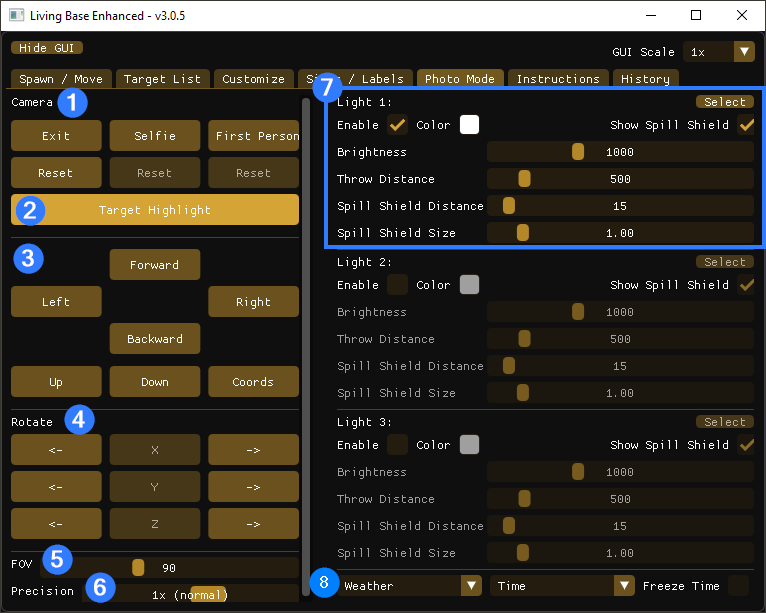
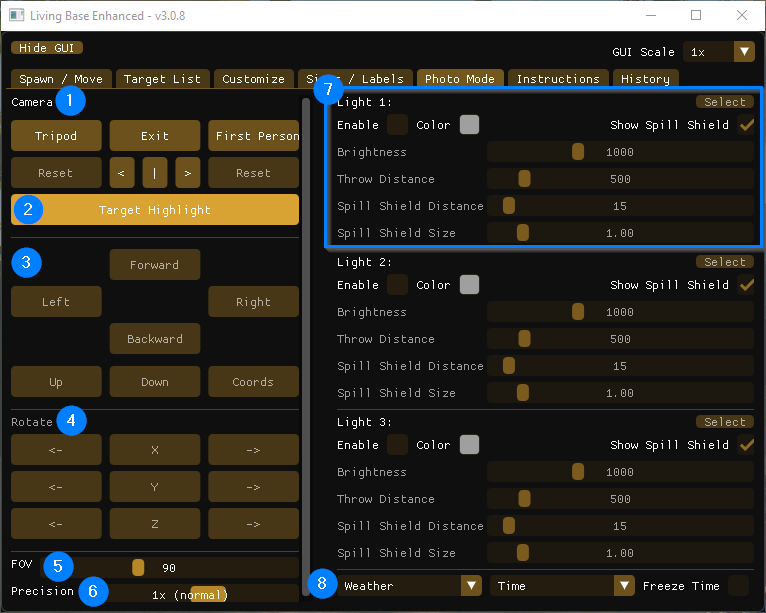
README: document Hand Item Transform, update Photo Mode screenshot
Hand Item Transform shipped in v3.0.7 but was never documented here at
all. Adds the missing Hand Item List/Hand Item Transform entries with
a panel screenshot and a before/after example pair. Also swaps the
Photo Mode overview screenshot for the current Camera panel (left/
center/right shoulder buttons replacing the old per-mode Selfie Reset).

diff --git a/R5/Binaries/Win64/ue4ss/Mods/LivingBase/README.md b/R5/Binaries/Win64/ue4ss/Mods/LivingBase/README.md
@@ -258,7 +258,18 @@ The Customize tab contains many features to help place and modify people to bett
      - Pose List - On the left hand side is a list of various poses and actions. Clicking + next to one will assign it to the targeted person.
      - Current Pose - Displays what pose is currently running.
      - Player Controls - These allow the pausing and playing of the pose or action, as well as frame skipping and scrubbing with a slider. A paused animation is saved and persists between loads.
-     - Hand Dropdowns - Allows placement of items and weapons in people's hands. The four dropdown categories are for organization; only one item may be assigned to each hand.
+     - Hand Item List - This list contains various items that can be put into an actor's hands. Just find the item and click + next to it.
+     - Hand Item Transform - Sometimes an item does not spawn in the hand properly due to misalignment of the attachment socket. To combat this, the Hand Item Transform section allows the rotation, movement, and scaling of items based on the hand, so the transform stays in place when animated. Controls are the same as all the other locations where items or actors can be transformed.
+
+       ![Hand Item Transform](images/customize_13.png)
+
+       Before:
+
+       ![Hand Item Transform Before](images/customize_14.png)
+
+       After:
+
+       ![Hand Item Transform After](images/customize_15.png)
 
 ## Signs / Labels
 
